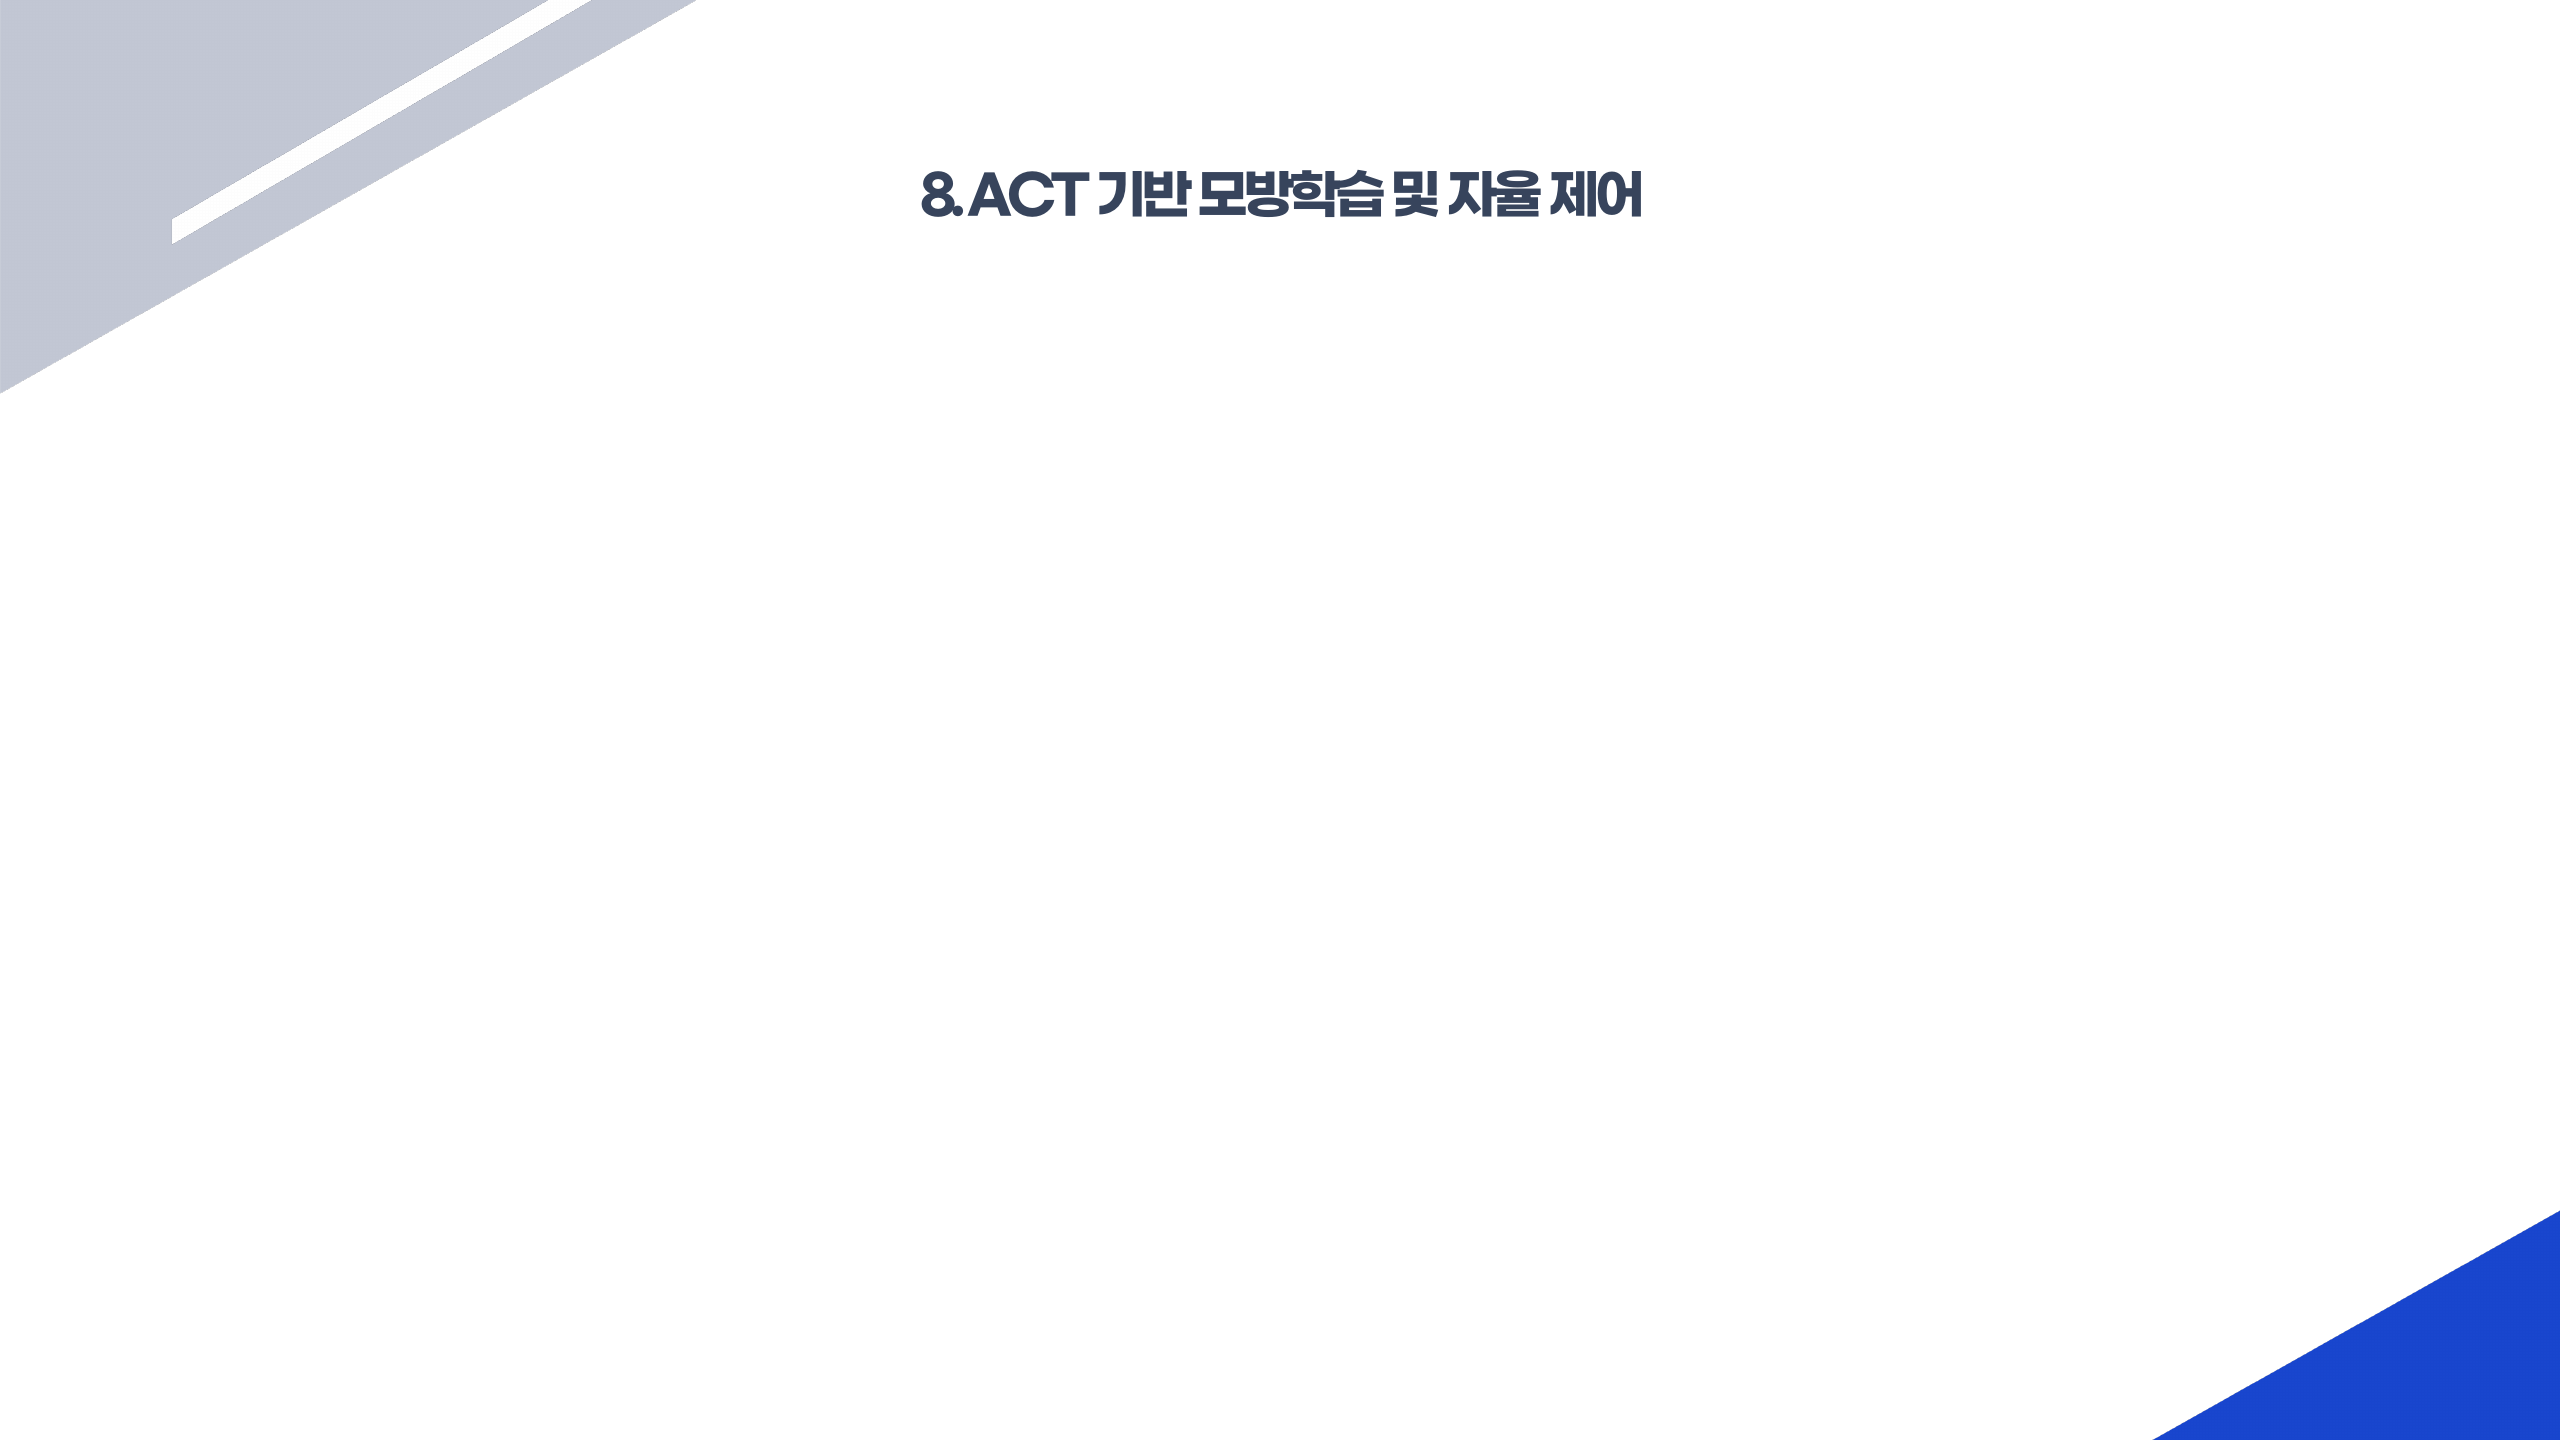
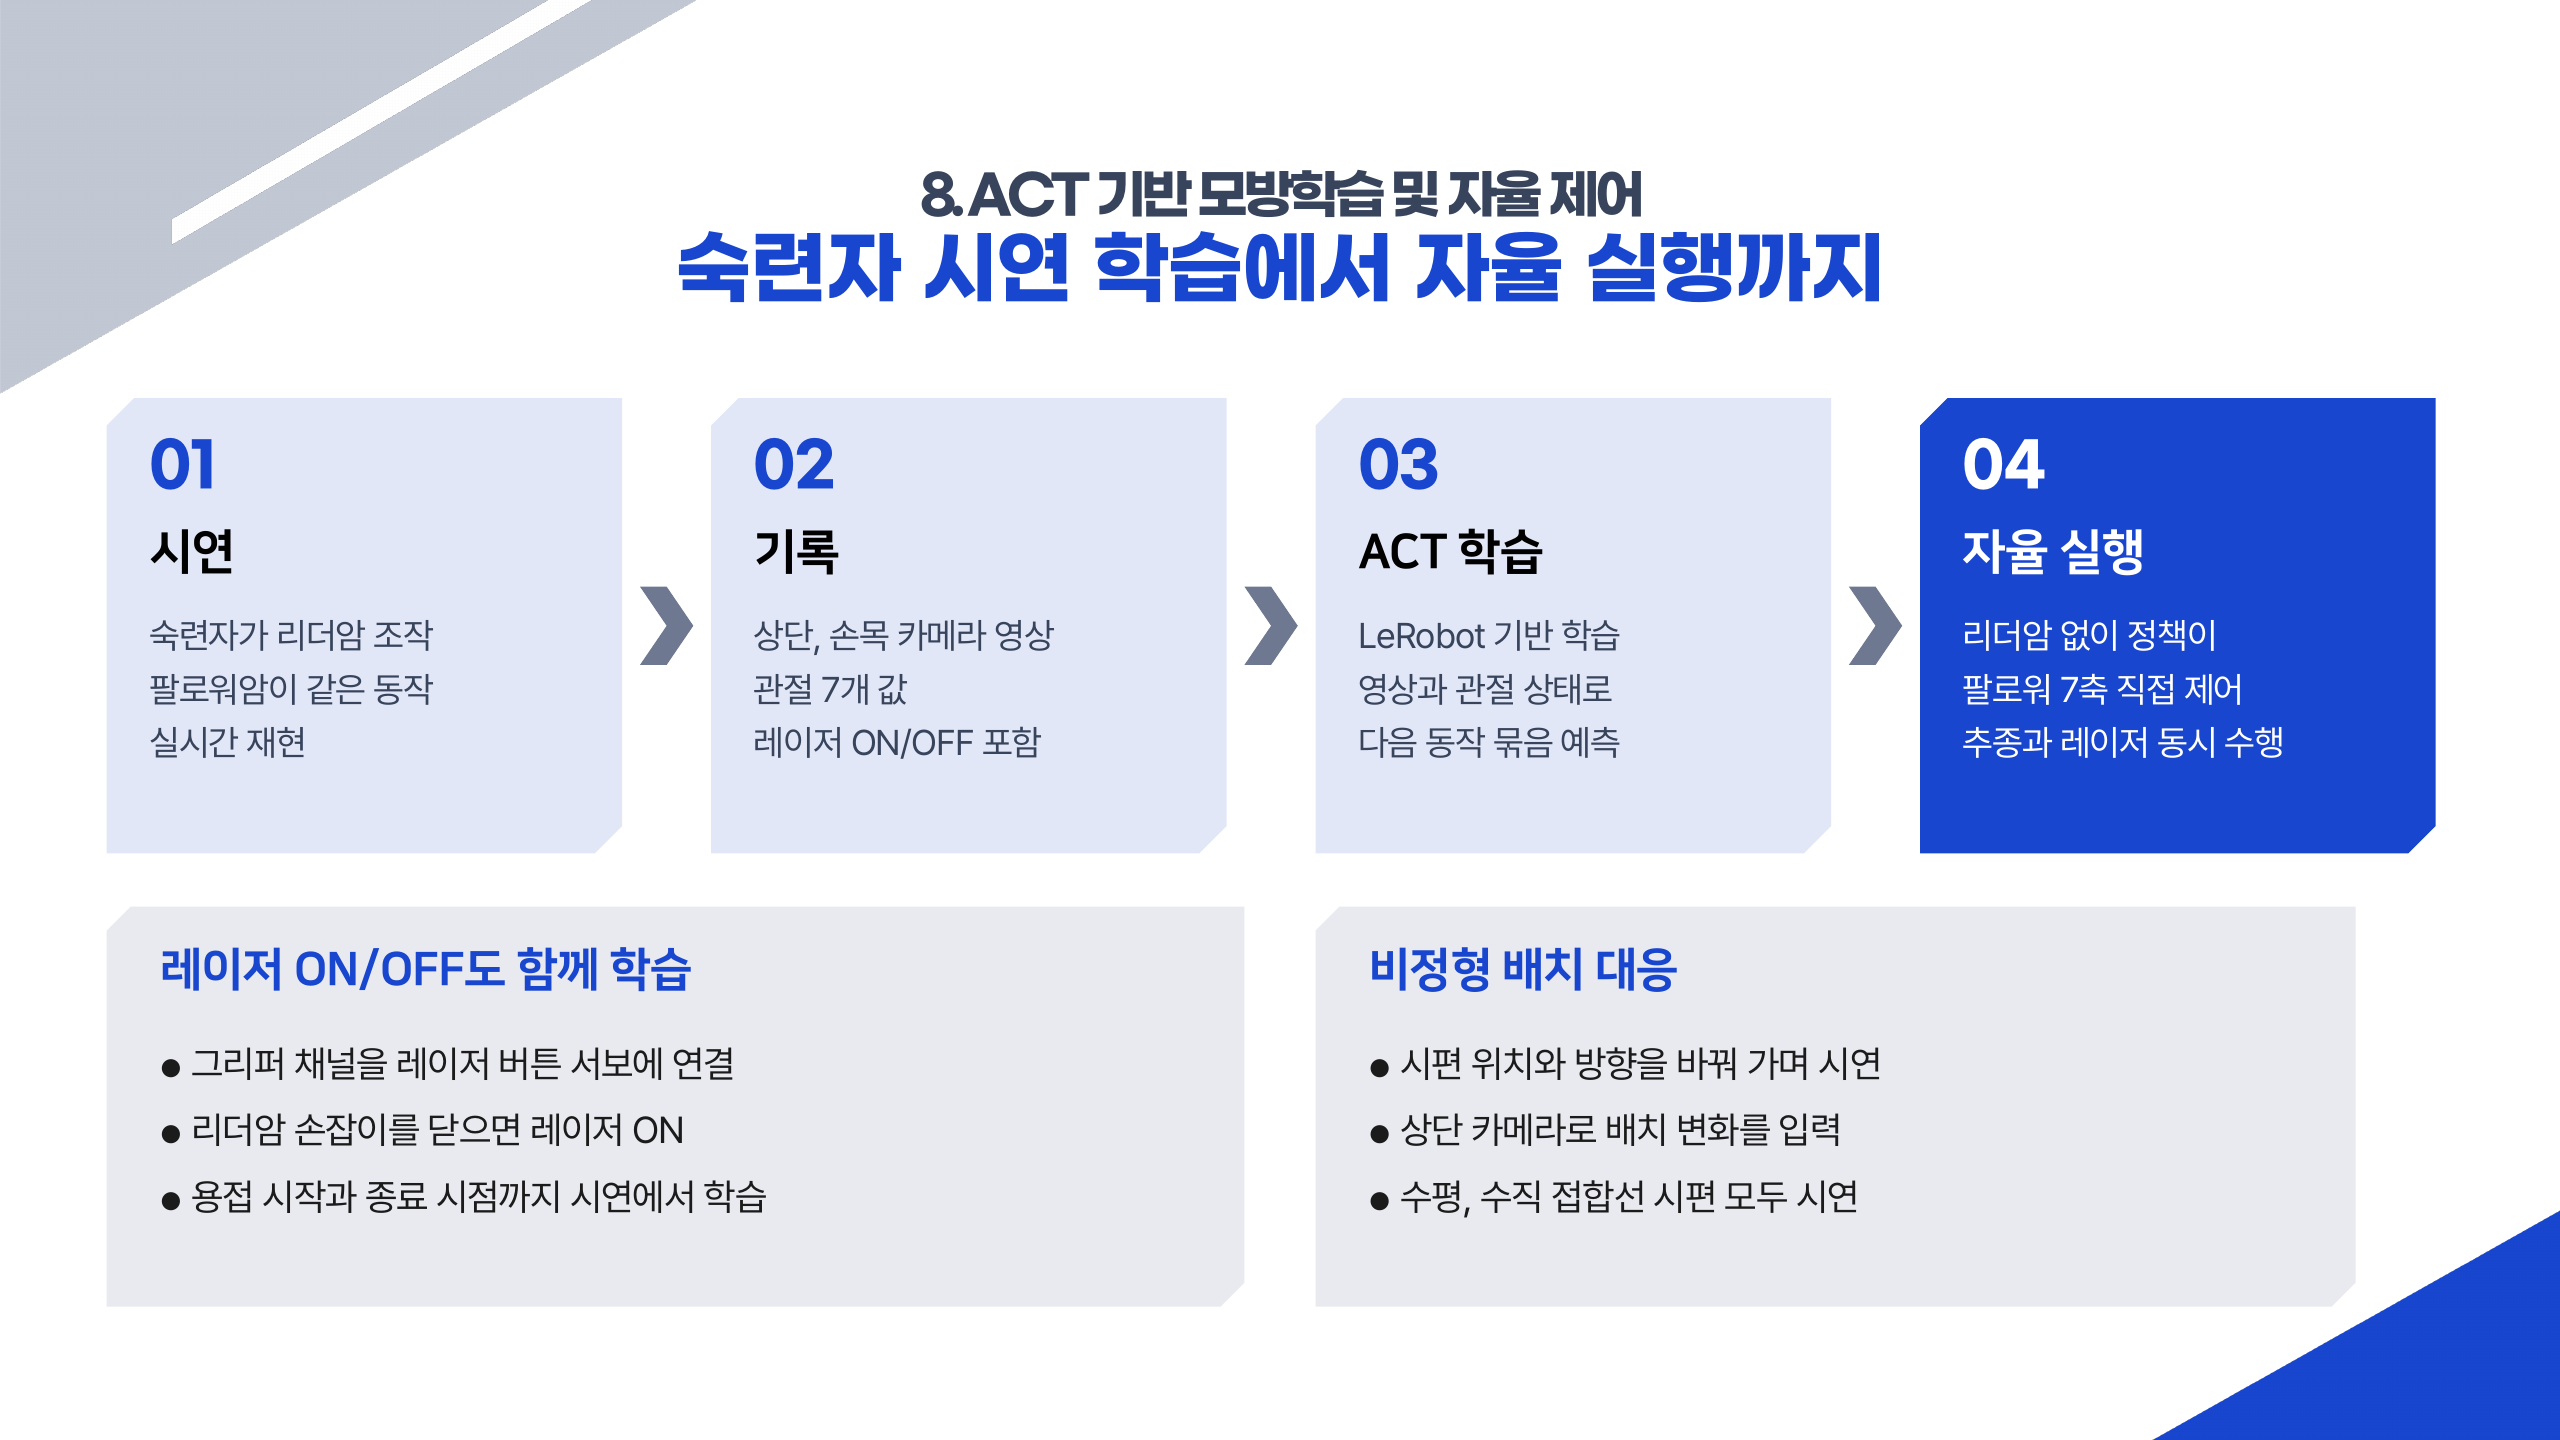
9~12장 내용 채움, 13장 실무적 문장 넘침 수정

diff --git a/index.html b/index.html
@@ -47,10 +47,10 @@
   <img class="slide" src="deck/final/06.png" alt="4. 개발 목표 및 차별성" loading="lazy">
   <img class="slide" src="deck/final/07.png" alt="5. 개발 대상 및 자율 작업 시나리오" loading="lazy">
   <img class="slide" src="deck/final/08.png" alt="6. 시스템 구성 및 하드웨어 설계: 자율용접 로봇 시스템 아키텍처" loading="lazy">
-  <img class="slide" src="deck/final/09.png" alt="6. 시스템 구성 및 하드웨어 설계: 하드웨어 설계" loading="lazy">
-  <img class="slide" src="deck/final/10.png" alt="7. 실시간 작업 모니터링" loading="lazy">
-  <img class="slide" src="deck/final/11.png" alt="8. ACT 기반 모방학습 및 자율 제어" loading="lazy">
-  <img class="slide" src="deck/final/12.png" alt="9. 자율 용접 시연" loading="lazy">
+  <img class="slide" src="deck/final/09.png" alt="6. 시스템 구성 및 하드웨어 설계: 하드웨어 설계. 매니퓰레이터, 엔드이펙터, 레이저 모듈, 레이저 ON/OFF, 카메라" loading="lazy">
+  <img class="slide" src="deck/final/10.png" alt="7. 실시간 작업 모니터링: 웹 대시보드로 보는 영상과 로봇 상태" loading="lazy">
+  <img class="slide" src="deck/final/11.png" alt="8. ACT 기반 모방학습 및 자율 제어: 시연, 기록, ACT 학습, 자율 실행" loading="lazy">
+  <img class="slide" src="deck/final/12.png" alt="9. 자율 용접 시연: 임의 배치 시편 자율용접 시연과 확인 항목" loading="lazy">
   <img class="slide" src="deck/final/13.png" alt="10. 결론 및 향후 과제" loading="lazy">
   <img class="slide" src="deck/final/14.png" alt="10. 결론 및 향후 과제: 한계점과 향후 과제" loading="lazy">
 </main>
